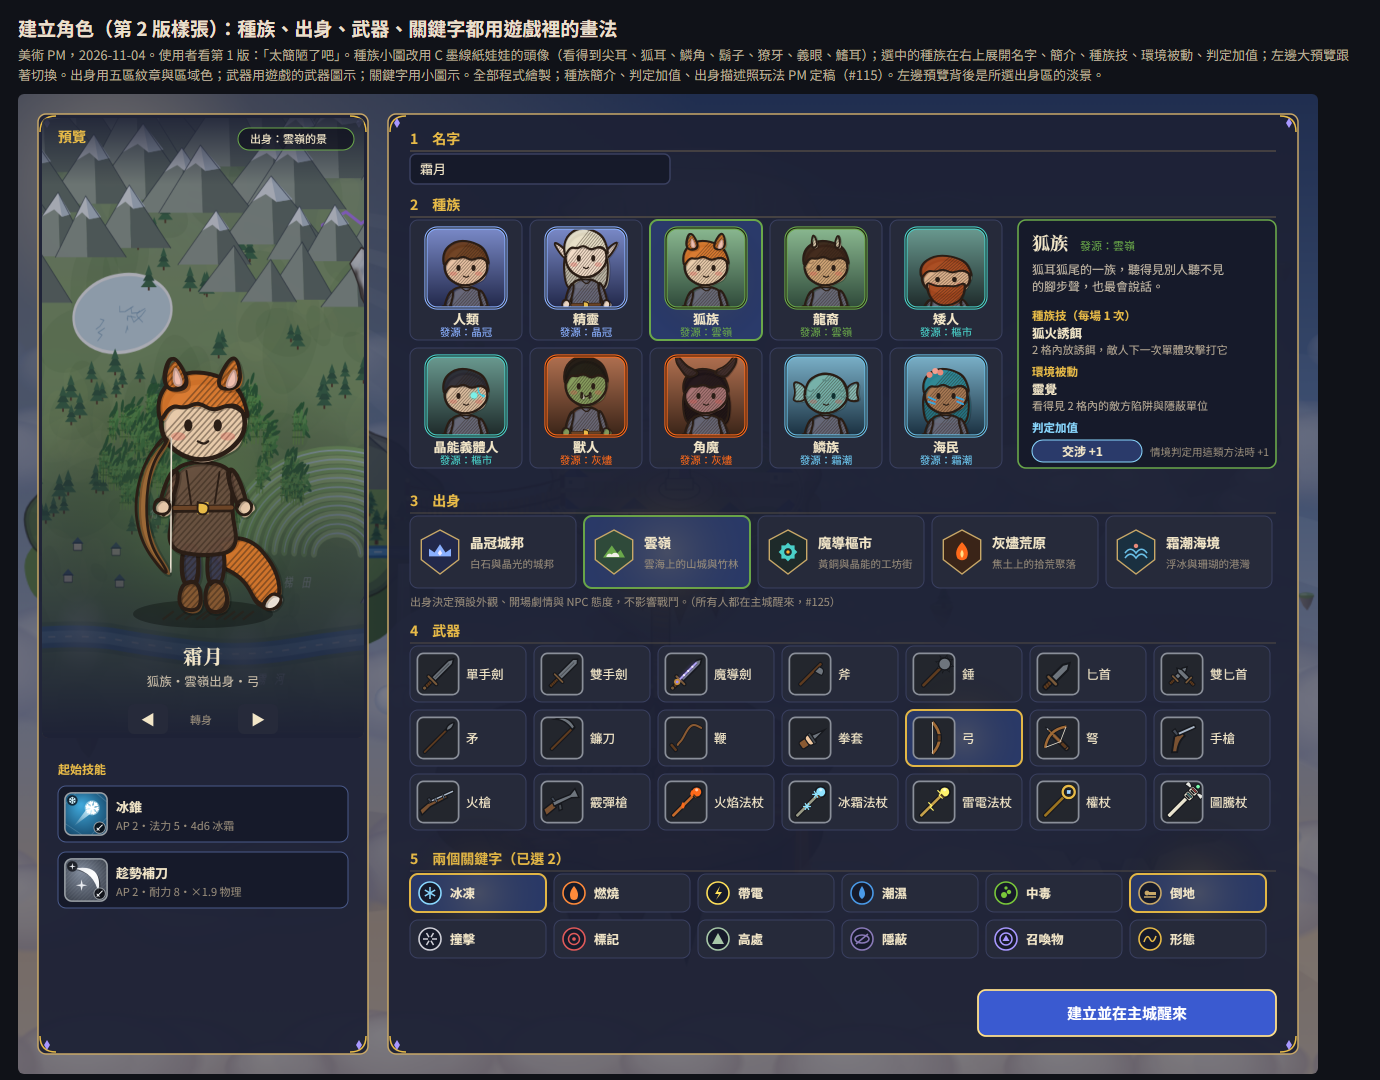
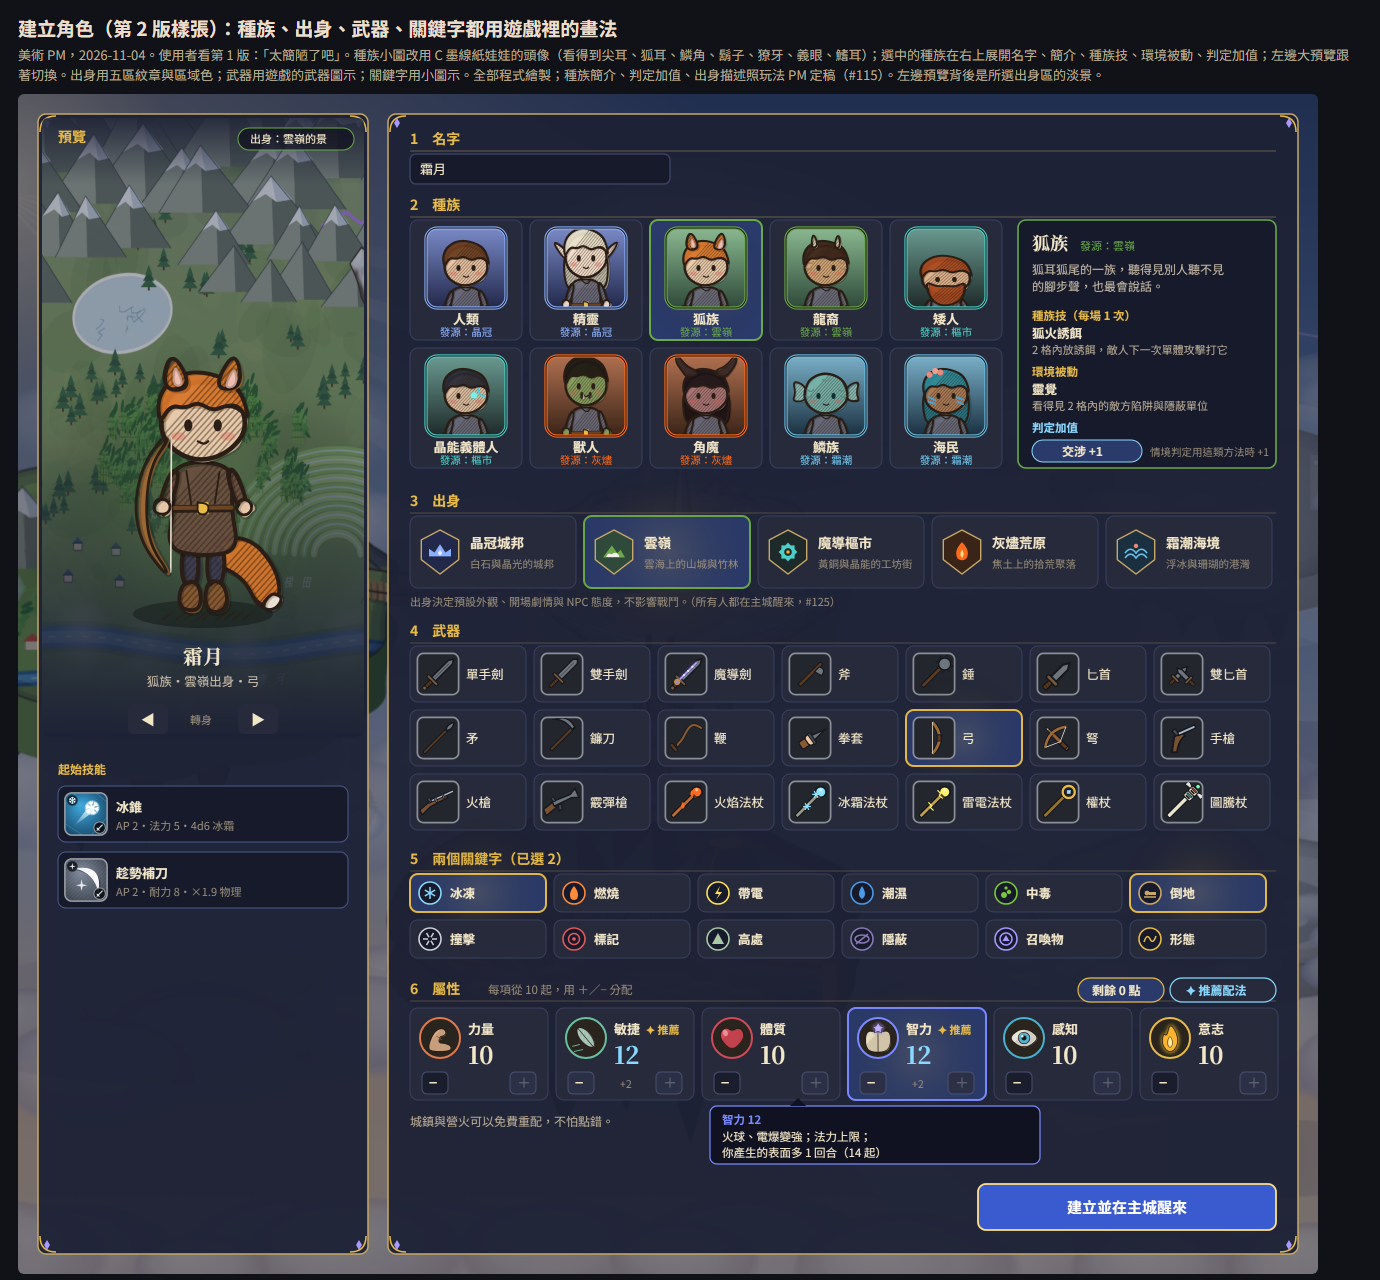
docs(art): add attribute step to creation sample

diff --git a/docs/art/sample/create-v2.html b/docs/art/sample/create-v2.html
@@ -64,9 +64,9 @@ function kwIcon(x,cx,cy,k){const C={冰凍:"#8ad8ff",燃燒:"#ff8a3a",帶電:"#f
     形態:()=>{x.beginPath();x.moveTo(-6,3);x.quadraticCurveTo(-3,-6,0,0);x.quadraticCurveTo(3,6,6,-3);x.stroke();}})[k]();
   x.restore();}
 function chip(x,X,Y,W,H,sel,col=GOLD2){x.fillStyle=sel?"#2a3a6a":"#262a3a";x.beginPath();x.roundRect(X,Y,W,H,8);x.fill();x.strokeStyle=sel?col:"#3a4060";x.lineWidth=sel?2:1;x.stroke();if(sel){glow(x,X+W/2,Y+H/2,W*0.6,"rgba(232,187,72,0.15)");}}
-const W=1300,H=980;const [c,x]=cv(W,H);sky(x,W,H);
+const W=1300,H=1180;const [c,x]=cv(W,H);sky(x,W,H);
 // 左：預覽
-frame(x,20,20,330,940);
+frame(x,20,20,330,1140);
 // 預覽背景：所選出身區的淡景（區域插畫 B 彩繪的全貌，RegionArt.draw 的 full 模式），框內上半部，往下漸淡到深藍
 {const rg=document.createElement("canvas");RegionArt.draw(rg,"painted",{full:true,region:"cloud_ridge"});
  x.save();x.beginPath();x.roundRect(24,24,322,620,6);x.clip();x.globalAlpha=0.62;
@@ -84,7 +84,7 @@ x.fillStyle=GOLD2;x.font=`bold 12px ${FONT}`;x.fillText("起始技能",40,680);
 [["冰錐",{element:"ice",shape:"single",range:5,skeleton:"strike",rarity:"common"},"AP 2・法力 5・4d6 冰霜"],["趁勢補刀",{element:"physical",shape:"single",range:1,skeleton:"strike",rarity:"common"},"AP 2・耐力 8・×1.9 物理"]].forEach(([n,spec,d],i)=>{const Y=692+i*66;x.fillStyle=NAVY2;x.beginPath();x.roundRect(40,Y,290,56,8);x.fill();x.strokeStyle="#4a5a8a";x.stroke();
   const ic=document.createElement("canvas");SkillIcon.draw(ic,spec,44);x.drawImage(ic,46,Y+6,44,44);x.fillStyle=CREAM;x.font=`bold 13px ${FONT}`;x.fillText(n,98,Y+26);x.fillStyle="#9a8e7c";x.font=`11px ${FONT}`;x.fillText(d,98,Y+44);});
 // 右：步驟
-frame(x,370,20,910,940);
+frame(x,370,20,910,1140);
 const sec=(n,t,y)=>{x.fillStyle=GOLD2;x.font=`bold 14px ${FONT}`;x.fillText(n+"　"+t,392,y);x.strokeStyle="rgba(200,168,104,0.3)";x.beginPath();x.moveTo(392,y+7);x.lineTo(1258,y+7);x.stroke();};
 sec("1","名字",50);x.fillStyle=NAVY2;x.beginPath();x.roundRect(392,60,260,30,6);x.fill();x.strokeStyle="#3a4060";x.stroke();x.fillStyle=CREAM;x.font=`13px ${FONT}`;x.fillText("霜月",402,80);
 sec("2","種族",116);
@@ -116,6 +116,31 @@ x.fillStyle=CREAM;x.font=`12.5px ${FONT}`;x.fillText(n,X+56,Y+33);});
 sec("5","兩個關鍵字（已選 2）",770);
 const KW=["冰凍","燃燒","帶電","潮濕","中毒","倒地","撞擊","標記","高處","隱蔽","召喚物","形態"];
 KW.forEach((k,i)=>{const X=392+(i%6)*144,Y=780+Math.floor(i/6)*46,sel=k==="冰凍"||k==="倒地";chip(x,X,Y,136,38,sel);kwIcon(x,X+20,Y+19,k);x.fillStyle=CREAM;x.font=`bold 12.5px ${FONT}`;x.fillText(k,X+40,Y+24);});
-x.fillStyle="#3a5ad0";x.beginPath();x.roundRect(960,896,298,46,8);x.fill();x.strokeStyle="#ffe08a";x.lineWidth=1.8;x.stroke();x.fillStyle="#fff";x.font=`bold 15px ${FONT}`;x.textAlign="center";x.fillText("建立並在主城醒來",1109,925);x.textAlign="left";
+// 6 屬性（07 7.2）：每項從 10 起，可分配 4 點；推薦配法看武器與起始兩招
+{const { ink, stroke, ellPts } = StoryDoll.H;
+  const ATTR = [
+    ["str", "力量", "#e07a4a", (c) => { ink(c, "arm", [[10, 34], [14, 22], [20, 14], [28, 12], [32, 18], [28, 22], [24, 22], [22, 30], [30, 30], [38, 34], [36, 40], [12, 40]], "#e8b890", { w: 0.9 }); stroke(c, "arm-m", [[20, 22], [26, 26]], 0.8, "#8a5a3a"); }],
+    ["dex", "敏捷", "#6ac0a0", (c) => { c.save(); c.translate(24, 24); c.rotate(-0.7); ink(c, "fe", [[0, -18], [7, -8], [6, 8], [0, 16], [-6, 8], [-7, -8]], "#c8f0e0", { w: 0.8 }); stroke(c, "fe-q", [[0, -16], [0, 20]], 0.8, "#2b1e16"); c.restore(); stroke(c, "wind", [[8, 34], [16, 32]], 1, "#6ac0a0"); stroke(c, "wind2", [[10, 40], [20, 38]], 1, "#6ac0a0"); }],
+    ["con", "體質", "#d04a5a", (c) => { ink(c, "heart", [[24, 40], [10, 26], [10, 16], [17, 11], [24, 16], [31, 11], [38, 16], [38, 26]], "#e04a5a", { w: 0.9 }); c.fillStyle = "rgba(255,255,255,0.4)"; c.beginPath(); c.ellipse(16, 18, 3, 4, -0.4, 0, TAU); c.fill(); }],
+    ["int", "智力", "#7a8aff", (c) => { ink(c, "book", [[9, 14], [24, 18], [39, 14], [39, 38], [24, 42], [9, 38]], "#f2e6c8", { w: 0.9 }); stroke(c, "spine", [[24, 18], [24, 42]], 0.9, "#2b1e16"); c.save(); c.shadowColor = "#a898ff"; c.shadowBlur = 6; ink(c, "star", [[24, 4], [26, 10], [32, 10], [27, 13], [29, 19], [24, 15], [19, 19], [21, 13], [16, 10], [22, 10]], "#c8bcff", { shade: false, w: 0.5 }); c.restore(); }],
+    ["wis", "感知", "#4ab0d0", (c) => { ink(c, "eye", [[6, 24], [16, 15], [24, 13], [32, 15], [42, 24], [32, 33], [24, 35], [16, 33]], "#f2f0e8", { w: 0.9 }); ink(c, "iris", ellPts(24, 24, 7, 7, 14), "#4ab0d0", { shade: false, w: 0.7 }); c.fillStyle = "#1c1712"; c.beginPath(); c.arc(24, 24, 3, 0, TAU); c.fill(); c.fillStyle = "#fff"; c.beginPath(); c.arc(22, 22, 1.4, 0, TAU); c.fill(); }],
+    ["wil", "意志", "#e8bb48", (c) => { c.save(); c.shadowColor = "#ffd23a"; c.shadowBlur = 8; ink(c, "flame", [[24, 6], [32, 18], [34, 30], [28, 40], [20, 40], [14, 30], [16, 18], [20, 22]], "#ffb030", { shade: false, w: 0.9 }); ink(c, "flame-in", [[24, 20], [28, 30], [24, 37], [20, 30]], "#fff4c0", { shade: false, w: 0.5 }); c.restore(); }],
+  ];
+ sec("6","屬性",900);x.fillStyle="#9a8e7c";x.font=`11.5px ${FONT}`;x.fillText("每項從 10 起，用 ＋／− 分配",470,900);
+ x.fillStyle="#2a3a6a";x.beginPath();x.roundRect(1060,884,86,24,12);x.fill();x.strokeStyle=GOLD2;x.lineWidth=1.2;x.stroke();x.fillStyle=CREAM;x.font=`bold 12px ${FONT}`;x.fillText("剩餘 0 點",1074,901);
+ x.fillStyle="#262a3a";x.beginPath();x.roundRect(1152,884,106,24,12);x.fill();x.strokeStyle="#8ad8ff";x.stroke();x.fillStyle="#8ad8ff";x.font=`bold 12px ${FONT}`;x.fillText("✦ 推薦配法",1168,901);
+ const VAL={str:10,dex:12,con:10,int:12,wis:10,wil:10},REC={dex:1,int:1};
+ ATTR.forEach(([id,zh,col,fn],i)=>{const X=392+i*146,Y=914,hov=id==="int";chip(x,X,Y,138,92,hov,col);
+   x.save();x.translate(X+10,Y+10);x.beginPath();x.arc(20,20,20,0,TAU);x.fillStyle="#2a241e";x.fill();x.lineWidth=2;x.strokeStyle=col;x.stroke();x.beginPath();x.arc(20,20,19,0,TAU);x.clip();x.scale(40/48,40/48);fn(x);x.restore();
+   x.fillStyle=CREAM;x.font=`bold 13px ${FONT}`;x.fillText(zh,X+58,Y+26);if(REC[id]){x.fillStyle=GOLD2;x.font=`bold 11px ${FONT}`;x.fillText("✦ 推薦",X+90,Y+26);}
+   x.fillStyle=VAL[id]>10?"#8ad8ff":CREAM;x.font=`bold 24px ${SERIF}`;x.fillText(String(VAL[id]),X+58,Y+56);
+   [["−",X+12,VAL[id]>10],["＋",X+100,false]].forEach(([t,bx,on])=>{x.fillStyle=on||t==="＋"?"#2c3046":"#1a1d2c";x.beginPath();x.roundRect(bx,Y+64,26,22,5);x.fill();x.strokeStyle="#4a5070";x.lineWidth=1;x.stroke();x.fillStyle=t==="＋"?"#5a5e70":CREAM;x.font=`bold 14px ${FONT}`;x.fillText(t,bx+7,Y+80);});
+   x.fillStyle="#9a8e7c";x.font=`10.5px ${FONT}`;x.fillText(VAL[id]>10?"+"+(VAL[id]-10):"",X+64,Y+80);});
+ // 滑過智力的說明
+ {const X=692,Y=1012;x.fillStyle="rgba(16,18,34,0.97)";x.beginPath();x.roundRect(X,Y,330,58,7);x.fill();x.strokeStyle="#7a8aff";x.lineWidth=1.2;x.stroke();
+  x.fillStyle="#7a8aff";x.font=`bold 11.5px ${FONT}`;x.fillText("智力 12",X+12,Y+18);x.fillStyle=CREAM;x.font=`11.5px ${FONT}`;x.fillText("火球、電爆變強；法力上限；",X+12,Y+35);x.fillText("你產生的表面多 1 回合（14 起）",X+12,Y+51);
+  x.fillStyle="rgba(16,18,34,0.97)";x.beginPath();x.moveTo(X+80,Y);x.lineTo(X+88,Y-8);x.lineTo(X+96,Y);x.fill();}
+ x.fillStyle="#b8ab96";x.font=`12px ${FONT}`;x.fillText("城鎮與營火可以免費重配，不怕點錯。",392,1032);}
+x.fillStyle="#3a5ad0";x.beginPath();x.roundRect(960,1090,298,46,8);x.fill();x.strokeStyle="#ffe08a";x.lineWidth=1.8;x.stroke();x.fillStyle="#fff";x.font=`bold 15px ${FONT}`;x.textAlign="center";x.fillText("建立並在主城醒來",1109,1119);x.textAlign="left";
 document.getElementById("a").appendChild(c);
 </script></body></html>

diff --git a/docs/art/全遊戲一致性巡檢.md b/docs/art/全遊戲一致性巡檢.md
@@ -95,6 +95,7 @@
 | 出身 | 五區紋章（晶冠＝晶冠冠冕、雲嶺＝山與雲、樞市＝齒輪晶核、荒原＝火焰、霜潮＝浪與珊瑚），加區域色和一句短描述 |
 | 武器 | 遊戲的武器圖示（`gearIcon`／`weaponIcon`），同名不重複 |
 | 關鍵字 | 每個關鍵字一個小圖示（冰凍雪花、燃燒火焰、帶電閃電、潮濕水滴、中毒泡泡、倒地、撞擊、標記、高處、隱蔽、召喚物、形態），選中金框 |
+| 屬性（07 7.2，補上漏做的一步） | 放在關鍵字之後、建立之前。6 項各一張卡：屬性墨線圖示（`attr-icons.png`）、名字、目前值（從 10 起，加過的用淺藍）、−／＋；右上「剩餘 N 點」（共 4 點）與「✦ 推薦配法」（依武器與起始兩招一鍵配好，推薦的屬性旁標「✦ 推薦」）；滑過顯示影響說明（例：智力「火球、電爆變強；法力上限；你產生的表面多 1 回合（14 起）」，文字由內容提供）；底下一行「城鎮與營火可以免費重配，不怕點錯。」 |
 
 - **文字已由玩法 PM 定稿**（#115，`玩法PM-建角種族出身文字.md`）：種族簡介放 `races.yaml` 新欄位 `blurb_zh`；判定加值照 `situation_rules.yaml` 的 `race_methods`，顯示成「判定加值：交涉 +1」，滑過時說明「情境判定用這類方法時 +1」；出身短描述照樣張的五句。
 - 首頁照 `home-v2.png`：背景直接呼叫大世界圖第 2 版的畫法（`drawBackdrop`），選單放右側不擋島。
